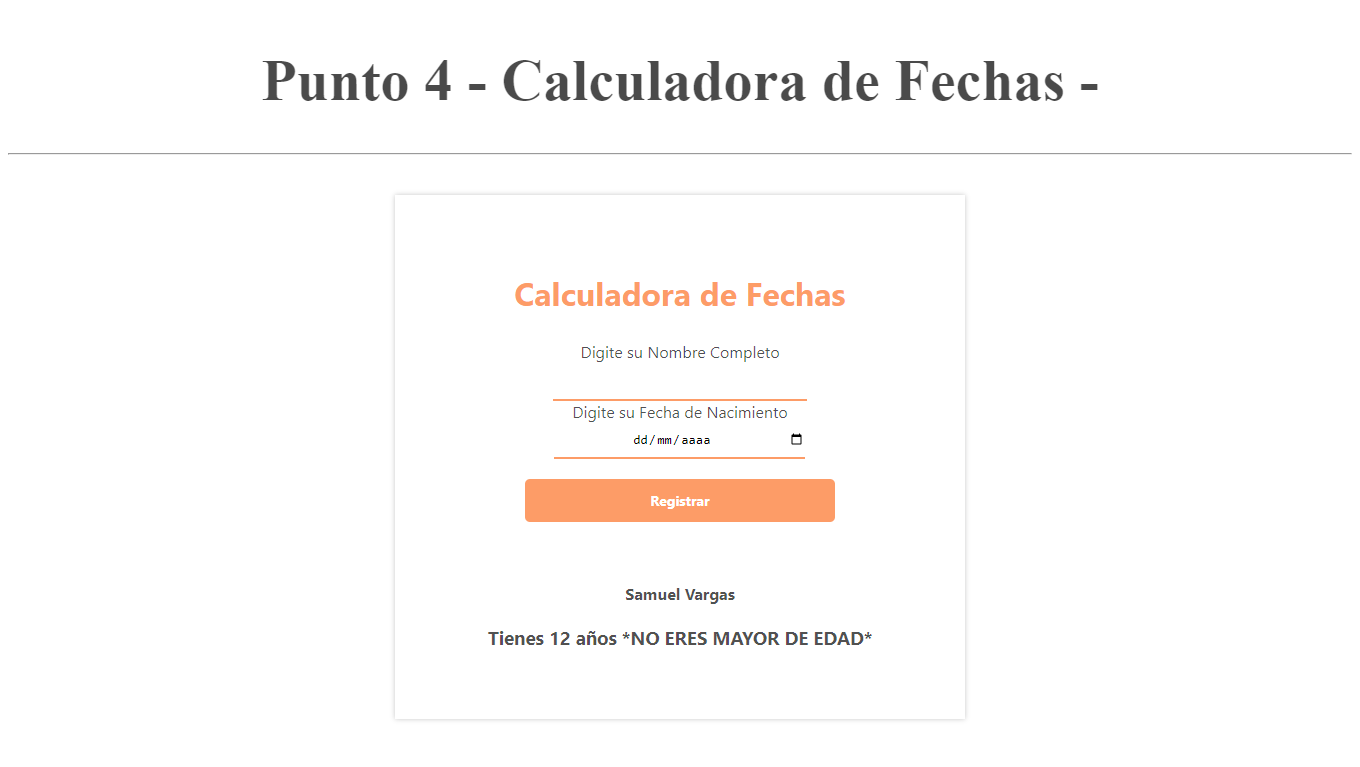
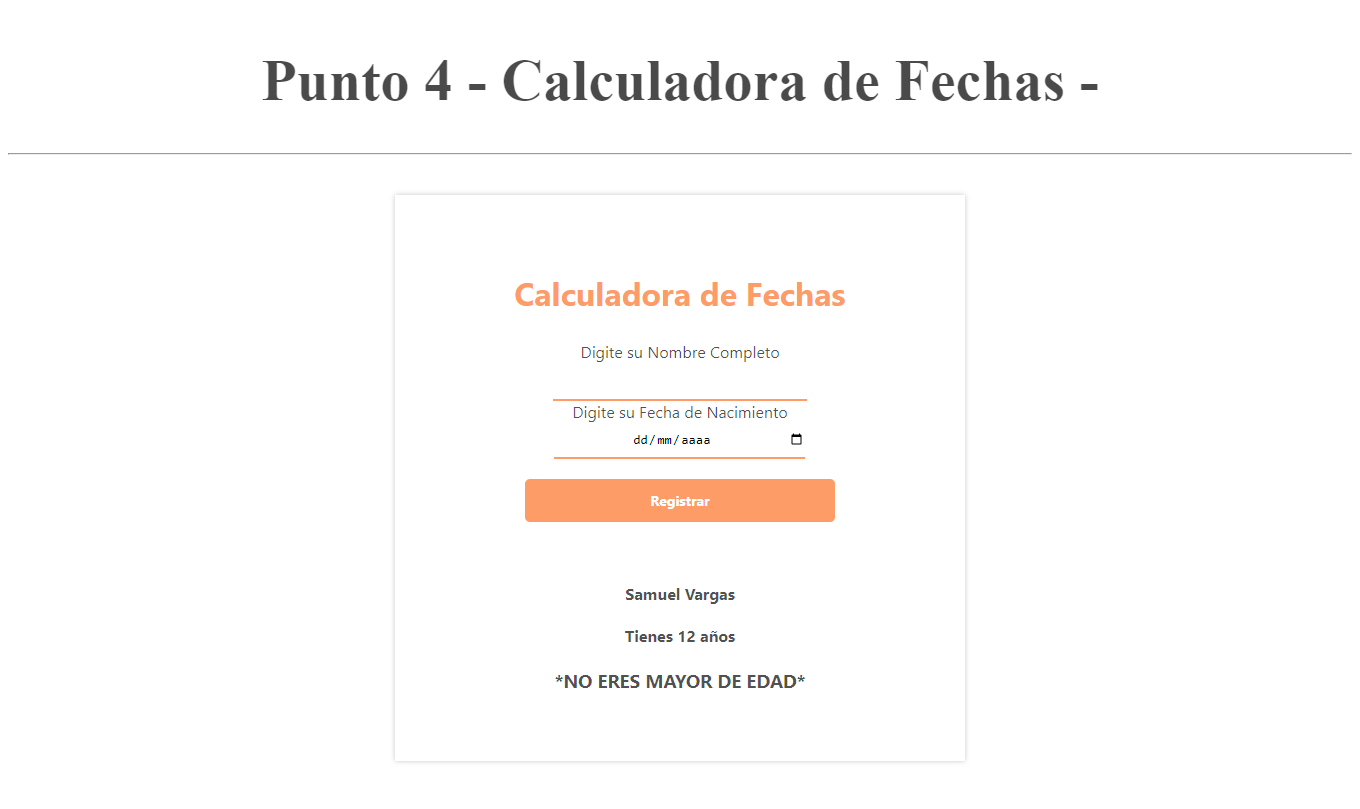
Agregación de nuevos parametros

diff --git a/punto-4/controller/calculationController.php b/punto-4/controller/calculationController.php
@@ -3,6 +3,7 @@
 $birthDate = date("y-m-d");
 $personName = "";
 $message = "";
+$ageNumber = 0;
 
 
 if (
@@ -17,8 +18,8 @@ if (
    $ageNumber = $currentDate->diff($birthDate)->y;
 
    if ($ageNumber >= 18) {
-      $message = "Tienes $ageNumber años \n *ERES MAYOR DE EDAD*";
+      $message = "*ERES MAYOR DE EDAD*";
    } else {
-      $message = "Tienes $ageNumber años \n *NO ERES MAYOR DE EDAD*";
+      $message = "*NO ERES MAYOR DE EDAD*";
    }
 }

diff --git a/punto-4/view/components/result.php b/punto-4/view/components/result.php
@@ -1,5 +1,8 @@
 <div>
-    <h4><?php echo ($personName); ?></h4>
+    <h4><?php echo $personName; ?></h4>
+    <?php if ($ageNumber != 0) { ?>
+        <h4><?php echo "Tienes " . $ageNumber . " años"; ?></h4>
+    <?php } ?>
         
     <h3><?php if ($message != "")  { ?> 
         <p><?php echo $message; ?></p>
